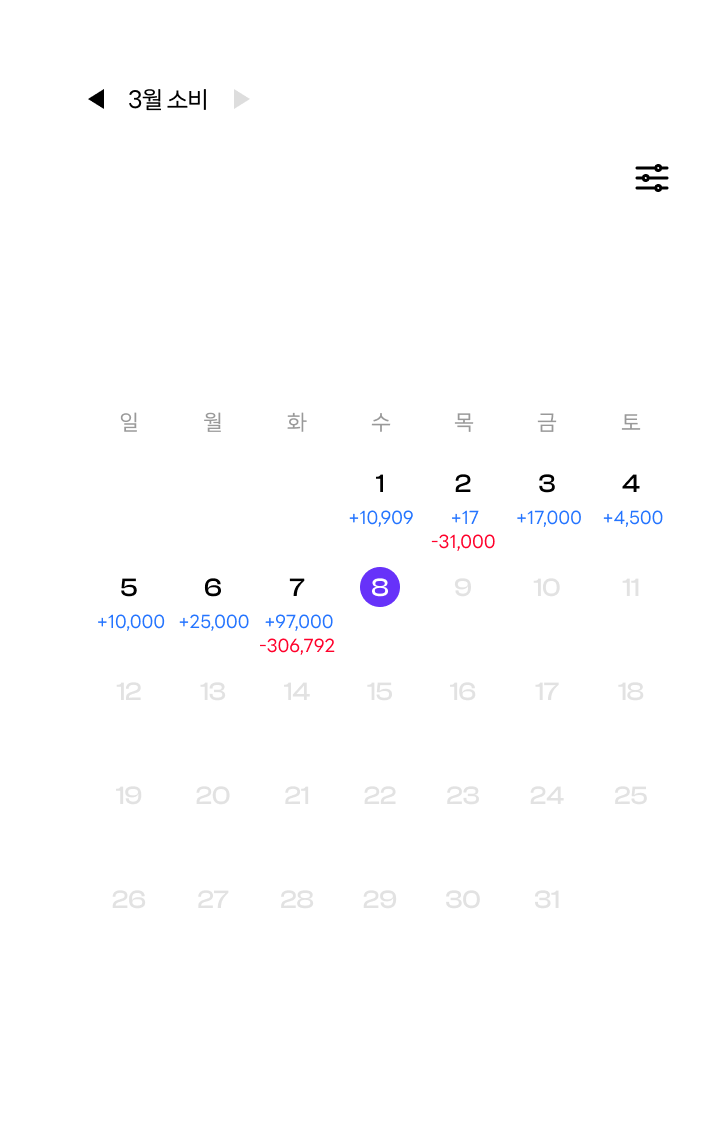
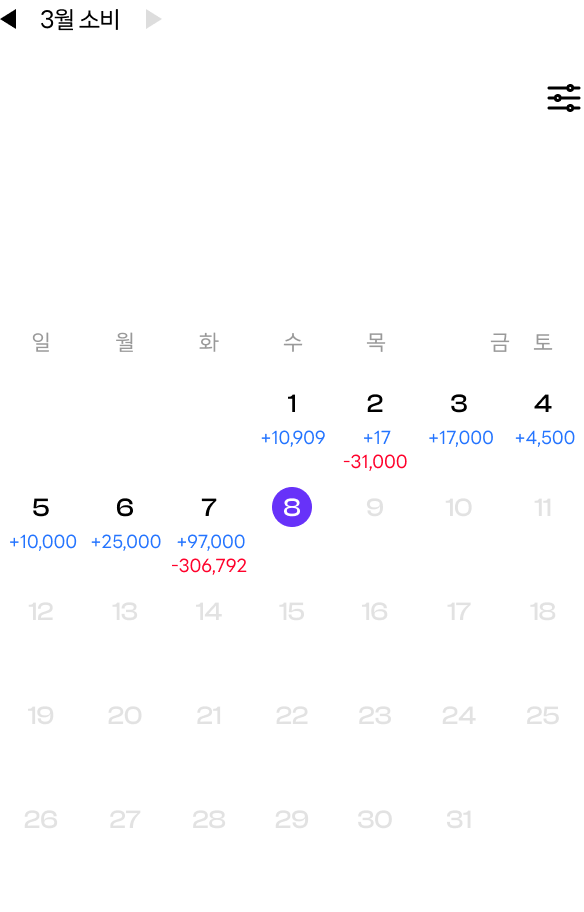
type_b

diff --git a/type_b/index.html b/type_b/index.html
@@ -4,7 +4,7 @@
     <meta charset="UTF-8" />
     <meta http-equiv="X-UA-Compatible" content="IE=edge" />
     <meta name="viewport" content="width=device-width, initial-scale=1.0" />
-    <title>MYMO</title>
+    <title>MYMO Type B</title>
 
     <link rel="stylesheet" href="./css/reset.css" />
     <link rel="stylesheet" href="./css/swiper.css" />
@@ -21,13 +21,11 @@
         font-weight: 700;
         font-style: normal;
       }
-
       .swiper.mySwiper {
         width: 100%;
         height: 100%;
         padding-left: 12%;
       }
-
       .swiper.mySwiper .swiper-slide {
         text-align: center;
         font-size: 18px;
@@ -38,18 +36,15 @@
         border-radius: 24px;
         overflow: hidden;
       }
-
       .swiper.mySwiper .swiper-wrapper{
         margin-left: -5%;
       }
-
       .swiper.mySwiper .swiper-slide img {
         display: block;
         width: 100%;
         height: 100%;
         object-fit: cover;
       }
-
       body {
         max-width: 768px;
         margin: 0 auto !important;
@@ -69,14 +64,14 @@
           width: 77%;
         }
       }
-
       .body{
         position: relative;
       }
-
       .section {
         margin-top: 5%;
       }
+
+
       .section1 {
         position: relative;
       }
@@ -91,6 +86,8 @@
           font-size: 9.5vw;
         }
       }
+
+
       .section2 {
         margin-top: -10%;
         z-index: 1;
@@ -179,8 +176,7 @@
         height: 6vw;
       }
       }
-
-      .prog-info{
+      .section2 .prog-info img{
         position: absolute;
         right: 46px;
         max-width: 432px;
@@ -193,24 +189,36 @@
 	      100% { top: 170px;}
       }
       @media (max-width: 768px) {
-        .prog-info{
-        max-width: 56vw;
+        .section2 .prog-info img{
+          max-width: 56vw;
+          right: 5vw;
+        }
+        @keyframes prog-ani {
+        0% { top: 83vw; }
+	      100% { top: 21vw;}
       }
       }
+
 
       .section.section3{
         margin-top:-9%;
         position: relative;
+        background: url(./img/section-white.png) no-repeat;
+        background-size: cover;
+        padding: 12% 0 12% 12%;
+        z-index: 1;
       }
       .section3 .cal-contents{
-        top: 21%;
+        top: 18%;
         right: 0;
         position: absolute;
         z-index: 2;
+        max-width: 100%;
       }
-      @media (max-width: 768px) {
-        .section3 .cal-contents{max-width: 85%;}
+      .section3 .swiper-slide > img{
+        padding-right: 7%;
       }
+
 
       .section4 {
         background: url(./img/section-gray-mid.png) no-repeat;
@@ -219,9 +227,11 @@
         background-size: cover;
       }
 
+
       .section5 {
         margin-top: -10%;
       }
+
 
       .section6 {
         background: url(./img/section-gray-bott.png) no-repeat;
@@ -231,9 +241,11 @@
         margin-top: -12%;
       }
 
+
       .section.section7{
         margin-top:0;
       }
+
 
       .menu-bott {
         margin: 0 auto;
@@ -264,10 +276,14 @@
           <div class="item">
             <img src="./img/section01.png" />
             <div class="num-increase total">
-              <span class="value" akhi="134523040">0</span>
+              <span class="value" id="counter1">0</span>
             </div>
           </div>
         </div>
+      </section>
+
+      <section id="menu-bott" class="menu-bott">
+        <img src="./img/menu-bar-bot.png"/>
       </section>
 
       <section id="section2" class="section section2">
@@ -395,10 +411,6 @@
           <div class="item"></div>
         </div>
       </section>
-
-      <section id="menu-bott" class="menu-bott">
-        <img src="./img/menu-bar-bot.png"  data-aos="fade-up"/>
-      </section>
     </section>
   </body>
 
@@ -420,7 +432,6 @@
     //달력 스와이프
     var swiper = new Swiper(".calSwiper", {
       slidesPerView: 1,
-      spaceBetween: 0,
       // centeredSlides: true,
       pagination: {
         el: ".swiper-pagination",
@@ -449,7 +460,7 @@
           const time = value / perSpeed;
           if (data < value) {
             counter.innerText = Math.ceil(data + time);
-            setTimeout(animate, 1);
+            setTimeout(animate, 20);
           } else {
             counter.innerText = value
           }
@@ -457,39 +468,34 @@
 
         animate();
       });
-
-      //프로그래스 바
-      $(".prog-info").css({"top" : "170px"});
-    }else{
-
     }
     });
 
-    
-
     //총 자산 증감
-    const counters = document.querySelectorAll(".value");
-    const speed = 200;
-
-    counters.forEach((counter) => {
-      const animate = () => {
-        const value = +counter.getAttribute("akhi");
-        const data = +counter.innerText;
-
-        const time = value / speed;
-        if (data < value) {
-          counter.innerText = Math.ceil(data + time);
-          setTimeout(animate, 1);
-        } else {
-          counter.innerText = value
-            .toString()
-            .replace(/\B(?=(\d{3})+(?!\d))/g, ",");
+    function numberCounter(target_frame, target_number) {
+    this.count = 0; this.diff = 0;
+    this.target_count = parseInt(target_number);
+    this.target_frame = document.getElementById(target_frame);
+    this.timer = null;
+    this.counter();
+    };
+    numberCounter.prototype.counter = function() {
+        var self = this;
+        this.diff = this.target_count - this.count;
+        
+        if(this.diff > 0) {
+            self.count += Math.ceil(this.diff / 5);
         }
-      };
+        
+        this.target_frame.innerHTML = this.count.toString().replace(/\B(?=(\d{3})+(?!\d))/g, ',');
+        
+        if(this.count < this.target_count) {
+            this.timer = setTimeout(function() { self.counter(); }, 20);
+        } else {
+            clearTimeout(this.timer);
+        }
+    };
 
-      animate();
-    });
-
-    
+    new numberCounter("counter1", 134523040);
   </script>
 </html>
